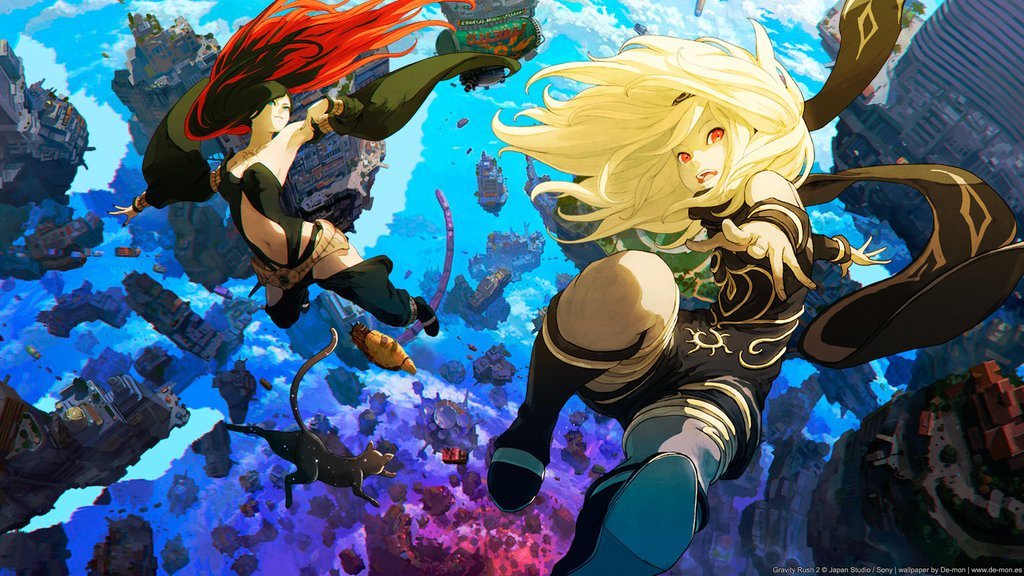
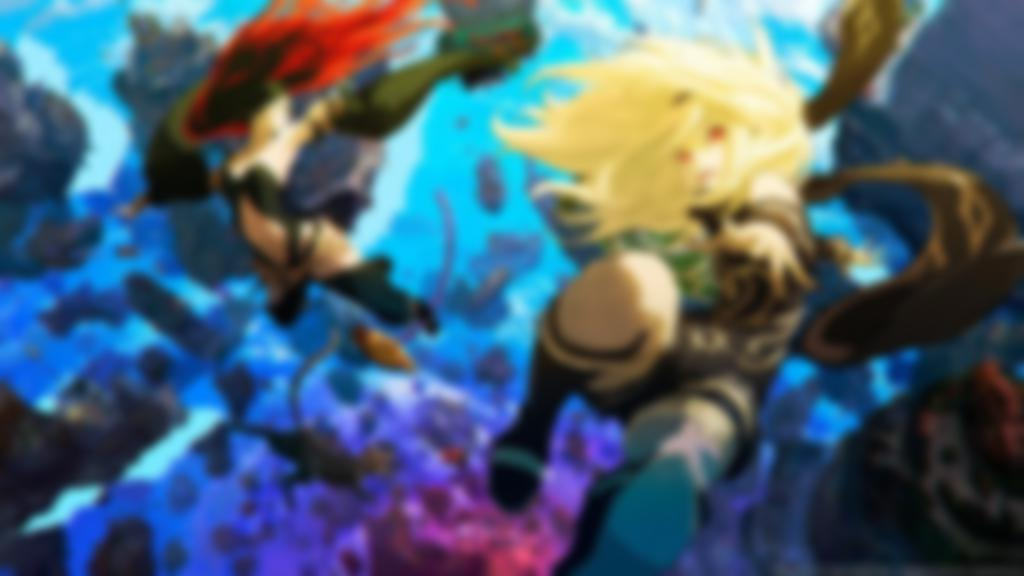
Blurred the game background images using graphicsmagick because holy shit CSS blurring on background image is not simple

diff --git a/utils/blur.js b/utils/blur.js
@@ -1,0 +1,10 @@
+const fs = require('fs')
+const gm = require('gm')
+
+gm('../public/img/bgcover/image')
+.blur(10, 5)
+.write('../public/img/bgcover/image', (err) => {
+    if (!err) {
+        console.log('Blurred!')
+    }
+})
